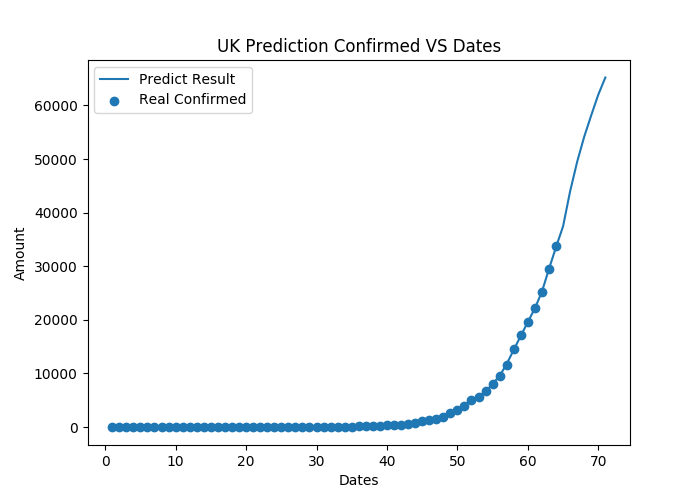
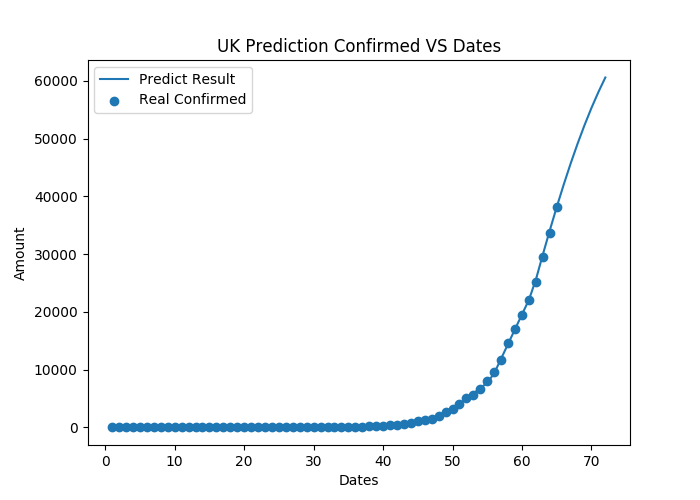
update prediction

diff --git a/mlp_uk.py b/mlp_uk.py
@@ -145,7 +145,7 @@ for each in each_data:
     uk_comfirmed_data.append(each['confirmed'])
 
 # add uk latest data manually
-uk_comfirmed_data.append(33718)
+uk_comfirmed_data.append(38168)
 
 uk_date_length = len(uk_comfirmed_data)
 uk_dates = list(range(1, uk_date_length + 1))
